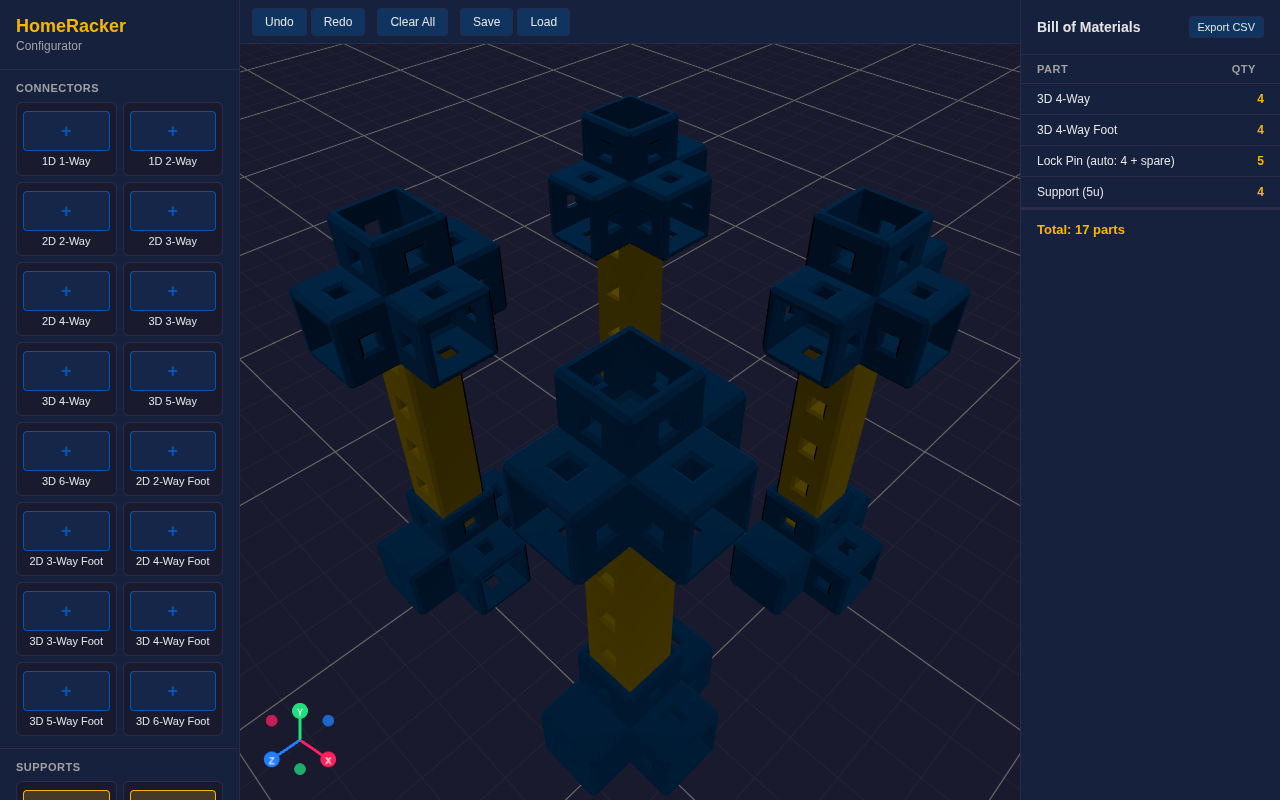
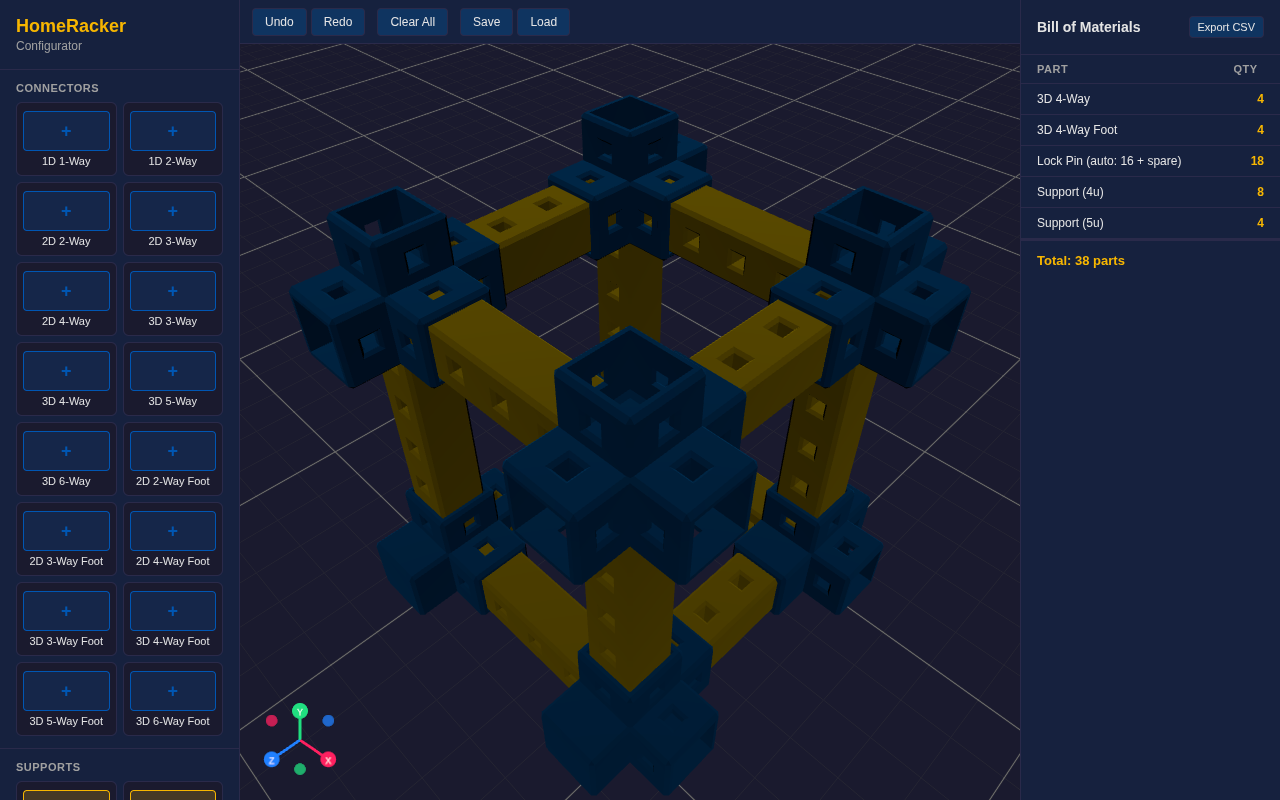
better screenshot

diff --git a/scripts/screenshot.ts b/scripts/screenshot.ts
@@ -92,19 +92,27 @@ await page.evaluate(() => {
   asm.addPart("support-5u", [0, 1, 5], [0, 0, 0], "y");
   asm.addPart("support-5u", [5, 1, 5], [0, 0, 0], "y");
 
-  // Horizontal supports along X axis (front and back)
-  asm.addPart("support-5u", [1, 0, 0], [0, 0, 0], "x");
-  asm.addPart("support-5u", [1, 0, 5], [0, 0, 0], "x");
+  // Bottom horizontal supports along X axis (front and back)
+  asm.addPart("support-4u", [1, 0, 0], [0, 0, 0], "x");
+  asm.addPart("support-4u", [1, 0, 5], [0, 0, 0], "x");
 
-  // Horizontal supports along Z axis (left and right)
-  asm.addPart("support-5u", [0, 0, 1], [0, 0, 0], "z");
-  asm.addPart("support-5u", [5, 0, 1], [0, 0, 0], "z");
+  // Bottom horizontal supports along Z axis (left and right)
+  asm.addPart("support-4u", [0, 0, 1], [0, 0, 0], "z");
+  asm.addPart("support-4u", [5, 0, 1], [0, 0, 0], "z");
 
   // Top connectors
   asm.addPart("connector-3d4w", [0, 6, 0]);
   asm.addPart("connector-3d4w", [5, 6, 0]);
   asm.addPart("connector-3d4w", [0, 6, 5]);
   asm.addPart("connector-3d4w", [5, 6, 5]);
+
+  // Top horizontal supports along X axis (front and back)
+  asm.addPart("support-4u", [1, 6, 0], [0, 0, 0], "x");
+  asm.addPart("support-4u", [1, 6, 5], [0, 0, 0], "x");
+
+  // Top horizontal supports along Z axis (left and right)
+  asm.addPart("support-4u", [0, 6, 1], [0, 0, 0], "z");
+  asm.addPart("support-4u", [5, 6, 1], [0, 0, 0], "z");
 });
 await new Promise((r) => setTimeout(r, 3000));
 
